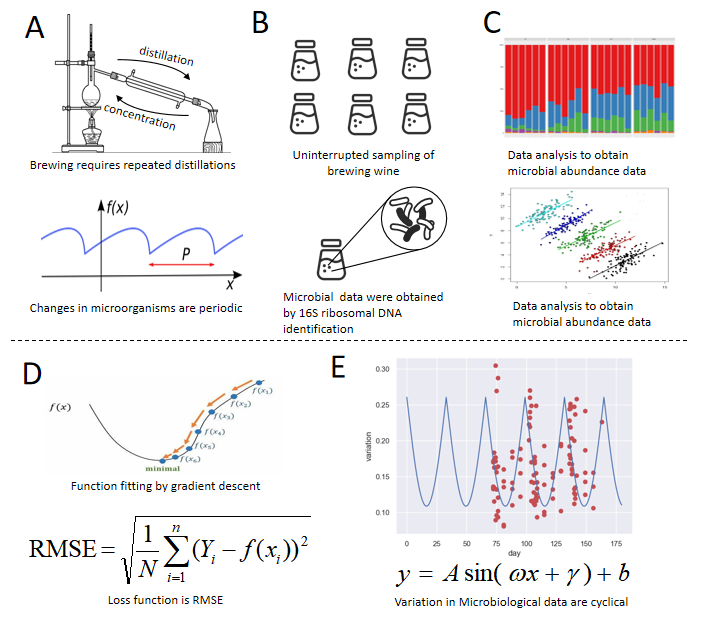
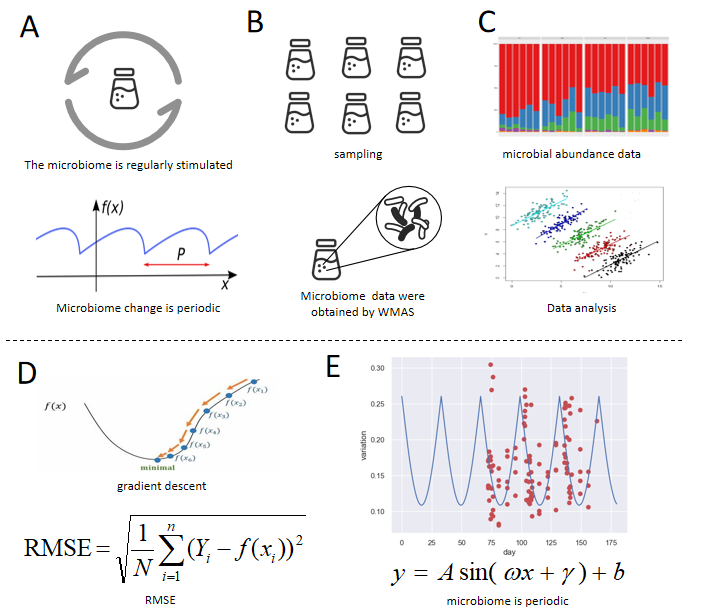
6.13_1

diff --git a/README.md b/README.md
@@ -1,23 +1,20 @@
-# MicroGradient
+# PeriodicNet
 
-MicroGradient, a machine learning model based on gradient descent algorithm for prediction of trends in microbial genomes.
+PeriodicNet, A Gradient Descent Based Model for Predicting Periodic Time Series
+## Introduction
 
-<div style="text-align: center;">
-  <img src="images/figure1.png" alt="Descriptive text" style="width: 100%;"/>
-  <p style="font-style: italic;">Fig1 (A) Baijiu making requires repeated distillation, during which the microbiome changes periodically (B)The microbiome was identified by 16s sequencing (C)Calculate differences of the microbiome (D)Gradient descent was used to optimise the model and RMSE is the loss function (E)Gradient descent to fit parameters</p>
-</div>
+Periodic time series data, characterized by recurring patterns over time, poses a unique challenge for traditional forecasting models. Addressing this challenge, we present "PeriodicNet," a novel model designed specifically to predict periodic time series data through the application of gradient descent optimization.
+
+## Motivation
+
+Periodic time series data is ubiquitous across numerous domains, including finance, climate science, and signal processing. Traditional forecasting methods often struggle to capture the nuanced periodic patterns present in such data. Inspired by the need for accurate and efficient periodic time series prediction, PeriodicNet aims to leverage the power of gradient descent optimization to effectively model and predict periodic trends.
 
 ## Explanation
-Traditional Chinese baijiu is one of the world's six distilled spirits. It has a long history, is produced using a unique brewing method and is a major contributor to the global spirits industry. Its production process consists of a special combination of solid-state microbial fermentation for baijiu brewing and steam bucket distillation to produce a variety of baijiu styles. Sorghum is used as the raw material for solid-state baijiu brewing. Daqu is used as a saccharification fermentation agent. Chinese baijiu is produced by solid-state fermentation, solid-state distillation, storage and blending.
-
-The process of brewing Baijiu begins by breaking raw materials. Hot water above 90°C is then added to the grains, increasing their moisture content to 37-40%. Subsequently, 10% of the source Zaopei is added to the moistened grains, and the mixture is steamed for more than two hours. After steaming, the grains are cooled to room temperature and mixed with 10% Daqu and 2% tail liquor (a distilled wine of poor quality).
-The resulting mixture is stacked and left to ferment for 4-5 days, during which the temperature rises to 48-52°C. Following this initial stacking fermentation, the Zaopei is transferred to a cellar for a further month of fermentation. After the cellar fermentation is complete, the Zaopei is removed from the pit, and the remaining 50% of the raw materials are added after a brief waiting period.
-These remaining raw materials are broken, and hot water above 90°C is added to achieve a moisture content of 37-40%. These grains are then combined with the previously fermented Zaopei. The mixture undergoes the same steps of steaming, cooling, mixing, stacking fermentation, and cellar fermentation as before.
-Finally, the fully fermented grains are distilled in a steaming bucket, yielding the final Baijiu product.
-
-The production process of Baijiu is traditional and depends on natural fermentation environments and the enrichment of various microorganisms, and produces a variety of enzymes and microbial metabolites dominated by glucoamylase. The main microorganisms in the Daqu are bacteria, molds, and yeasts. Of these, bacteria constitute the largest numbers, followed by molds and yeasts. In terms of species diversity, however, the molds are the most abundant with up to 51 species, followed by bacteria with 41 species. In high-temperature Daqu production, the temperature can reach >60 °C, and microbial compositions vary at different temperature stages. At lower temperatures, yeasts, molds, and certain bacteria accumulate in large quantities and produce high levels of enzymes and other metabolites. The enzymes hydrolyze the proteins present in the system to various amino acids. The enzymes and amino acids also undergo Maillard- and other chemical reactions generating compounds contributing to the characteristic Maotai-flavor. At higher temperatures, only heat-tolerant bacilli and bacteria remain, and these produce large quantities of metabolites that may undergo complex reactions and generate additional flavor compounds .When making distilled spirits, multiple distillations are usually performed to purify the alcohol concentration. Considering the effects of repeated distillations, the microbiome of distilled spirit shows periodic changes with distillation.The wine was sampled uninterruptedly during the 160-day distillation process. Abundance data of microorganisms of wine were obtained from the samples and correlation coefficients were calculated between them. The correlation coefficients give a more obvious picture of the periodic changes in the microbiome.MicroGradient was fitted to the microbiome variation by the gradient descent algorithm to predict the trend of their correlation coefficients.
-
-Considering the cyclical nature of microbial changes in wine during distillation Fig.1(A), we wanted to predict changes in the microbiome. There are many approachs to quantify the dissimilarity between microbial communities, such as Euclidean Distance,Manhattan Distance,Jaccard Index,Bray-Curtis Dissimilarity,and they all worked well.Considering the periodicity of microbiome changes in distillation, we used a periodic function to predict microbiome changes Fig.1(E).RMSE is a common loss function used in regression problems. It measures the average magnitude of the errors between the predicted values and the actual values Fig.1(F). The model adopts the random initialization and the parameters were updated by gradient descent.
+<div style="text-align: center;">
+  <img src="images/figure1.png" alt="Descriptive text" style="width: 100%;"/>
+  <p style="font-style: italic;">Fig1 (A) The microbiome is regularly stimulated, assuming that microbiome changes periodically (B)The microbiome was identified by 16s sequencing (C)Calculate differences of the microbiome (D)Gradient descent was used to optimise the model and RMSE is the loss function (E)Gradient descent to fit parameters</p>
+</div>
+An application of the PeriodicNet to the prediction of trends in cyclically changing microbiomes Fig.1(A). We wanted to predict changes in the microbiome, and using Bray-Curtis Dissimilarity to measure distances between microbiomes.Considering the periodicity of microbiome changes in distillation, we used a periodic function to predict microbiome changes Fig.1(E).RMSE is a common loss function used in regression problems. It measures the average magnitude of the errors between the predicted values and the actual values Fig.1(F). The model adopts the random initialization and the parameters were updated by gradient descent.
 
 ## Download
 Download MicroGradient using git:
@@ -26,13 +23,35 @@ git clone https://github.com/2275836125/MicroGradient.git
 ```
 
 ## Usage
-MicroGradient could predict trends of microbial genomes.The process involves some steps:
+1. **Define the Objective Function**: The objective is to minimize the error between the actual periodic time series data and the predicted values generated by the model. Let's denote the time series data as $( Y = \{y_1, y_2, ..., y_n\} )$ and the predicted values as $( \hat{Y} = \{\hat{y}_1, \hat{y}_2, ..., \hat{y}_n\} )$. The error can be represented using a loss function such as Mean Squared Error (MSE):
 
-1. Obtain microbiome abundance data.
-2. Calculation of correlation coefficients from microbiome abundance data.
-3. Data preprocessing to conform data to input format.
-4. Predict microbiome trends by MicroGradient.
+   $$ \text{MSE} = \frac{1}{n} \sum_{i=1}^{n} (y_i - \hat{y}_i)^2 $$
 
+2. **Model Architecture**: Let's use a simple model that consists of a periodic function. We'll use a sinusoidal function for this purpose:
 
+   $$ \hat{y}_i = A \cdot \sin(\omega t_i + \phi) + b $$
+
+   Where:
+   - $( A )$ is the amplitude.
+   - $( \omega )$ is the angular frequency (related to the period of the time series).
+   - $( t_i )$ is the time index.
+   - $( \phi )$ is the phase shift.
+   - $( b )$ is the bias term.
+
+3. **Initialize Parameters**: Initialize the parameters randomly or with some sensible initial values.
+
+4. **Gradient Descent**: Update the parameters iteratively to minimize the objective function. Compute the gradients of the loss function with respect to each parameter and update the parameters accordingly. The update rule for each parameter can be formulated as follows:
+
+   $$ \theta_{\text{new}} = \theta_{\text{old}} - \alpha \frac{\partial \text{MSE}}{\partial \theta_{\text{old}}} $$
+
+   Where $( \theta )$ represents any of the parameters (amplitude, angular frequency, phase shift, or bias), and $( \alpha )$ is the learning rate.
+
+5. **Repeat**: Repeat the gradient descent process until convergence (i.e., until the change in the loss function becomes negligible or after a fixed number of iterations).
+
+6. **Prediction**: Once the parameters are optimized, use the model to predict future values of the time series.
+
+7. **Evaluate Model Performance**: Evaluate the model's performance using metrics like Mean Absolute Error (MAE), Root Mean Squared Error (RMSE), or other relevant metrics on a validation dataset.
+
+8. **Fine-tuning**: If necessary, fine-tune hyperparameters such as learning rate, model architecture, or regularization strength to improve performance.
 
 
